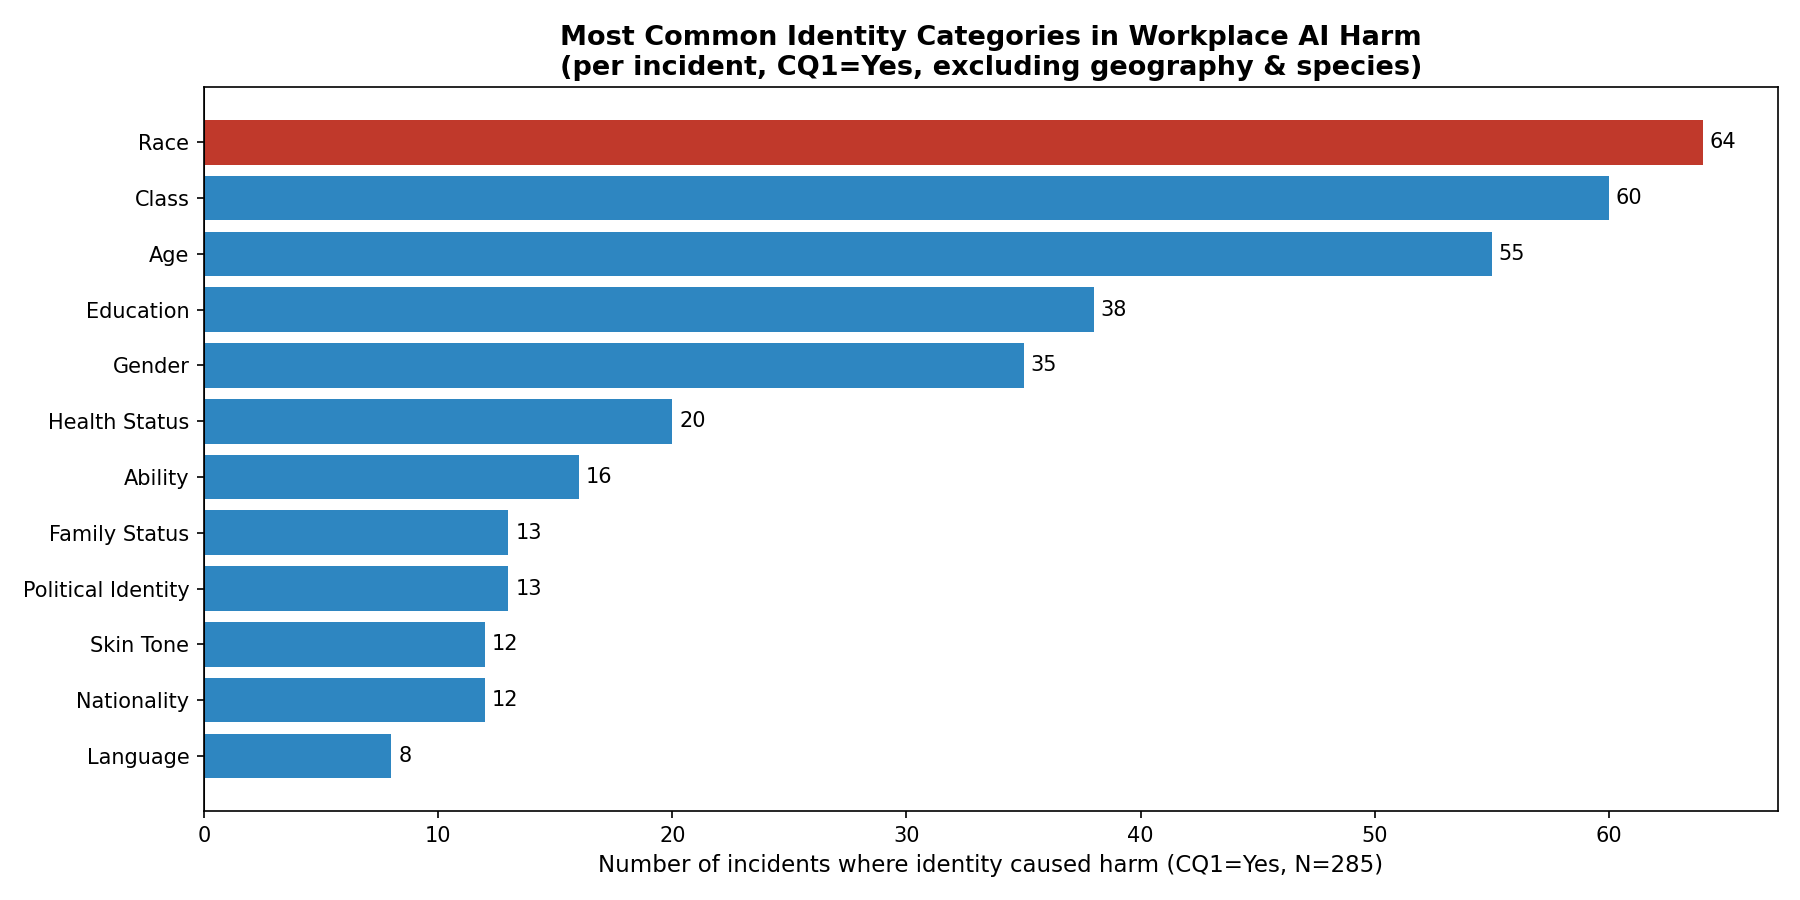
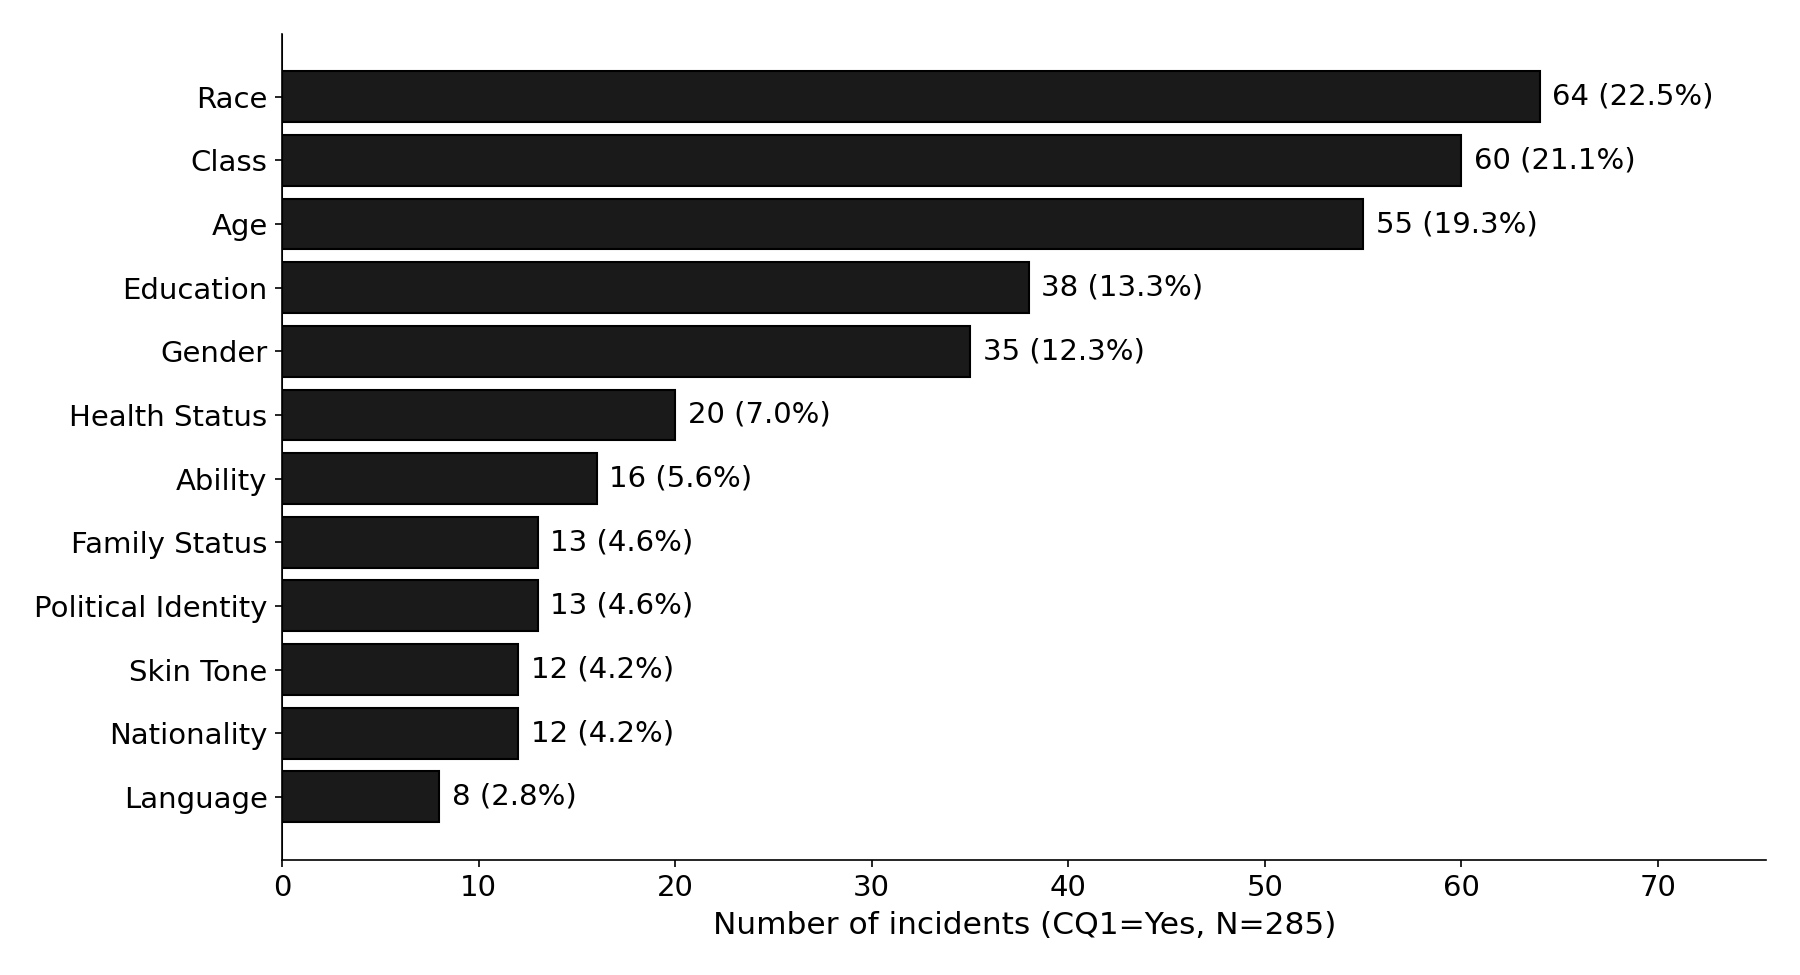
Refine intersectional analysis and graph styling
- Fix per-incident pair counting to match why_harms Formula 4
- Expand REDUNDANT_PAIRS: heritage<->race overlaps, disabled<->chronically ill
- Exclude 'graduate from elite university' from amplification (LLM noise)
- Drop title=8 amplification chart, lower threshold to n>=2
- Switch graphs to B&W styling (heatmap stays Blues)
- Remove in-figure titles so they can be added in the report
- Show counts and percentages on category prevalence
- Diagonal x-labels and larger fonts across all charts
- Switch API model in batch_annotate.py

diff --git a/src/analysis/quick_analysis.py b/src/analysis/quick_analysis.py
@@ -6,51 +6,267 @@ from collections import Counter
 from itertools import combinations
 from utils import get_causal_markers, is_valid_intersection
 
+# ── Paths ────────────────────────────────────────────────
 DATA_PATH = Path("../../data/annotations/annotations.json")
 OUTPUT_DIR = Path("../../data/figures/")
 OUTPUT_DIR.mkdir(parents=True, exist_ok=True)
 
+# ── Style: B&W, minimal, no titles ───────────────────────
+# Titles will be added in the report itself, not baked into the figure.
+plt.rcParams.update({
+    "font.family": "DejaVu Sans",
+    "font.size": 15,
+    "axes.titlesize": 0,        # titles drawn as empty
+    "axes.labelsize": 15,
+    "axes.edgecolor": "black",
+    "axes.linewidth": 0.8,
+    "xtick.labelsize": 14,
+    "ytick.labelsize": 14,
+    "axes.spines.top": False,
+    "axes.spines.right": False,
+})
+
+BAR_COLOR = "#1a1a1a"           # near-black, matches reference style
+EDGE_COLOR = "black"
+
+# ── Load data ────────────────────────────────────────────
 with DATA_PATH.open("r", encoding="utf-8") as f:
     data = json.load(f)
 
 N = len(data)
 
-# Data Aggregation
+# ── Aggregate counts ─────────────────────────────────────
+# Counts are aggregated PER INCIDENT (not per subject) to match the
+# why_harms Formula 4 convention: n_v1, n_v2, and n_v1,v2 all count
+# the number of *incidents* in which the value(s) appear, regardless
+# of how many subjects within that incident carry them.
 incident_category_counts = Counter()
 incident_value_counts = Counter()
 incident_value_pair_counts = Counter()
 
 for rec in data:
     cats_in_incident = set()
+    values_in_incident = set()
+    pairs_in_incident = set()
+
     for subj in rec.get("subjects", []):
         markers = get_causal_markers(subj)
-        for cat in markers.keys(): cats_in_incident.add(cat)
-        for cat, val in markers.items(): incident_value_counts[(cat, val)] += 1
-        
-        # Valid Intersections Only
+        for cat in markers.keys():
+            cats_in_incident.add(cat)
+        for cat, val in markers.items():
+            values_in_incident.add((cat, val))
+
+        # Collect pairs within a subject; dedup happens at the incident
+        # level via the set below so two subjects sharing the same pair
+        # don't double-count.
         for v1, v2 in combinations(sorted(markers.items()), 2):
             if is_valid_intersection(v1, v2):
-                incident_value_pair_counts[(v1, v2)] += 1
-                
-    for cat in cats_in_incident: incident_category_counts[cat] += 1
+                pairs_in_incident.add((v1, v2))
 
-# --- Generation of Cleaned Graph 4 (Amplification) ---
+    for cat in cats_in_incident:
+        incident_category_counts[cat] += 1
+    for val in values_in_incident:
+        incident_value_counts[val] += 1
+    for pair in pairs_in_incident:
+        incident_value_pair_counts[pair] += 1
+
+
+# ── GRAPH 1: Category prevalence per incident ────────────
+print("Building Graph 1 — Category prevalence...")
+
+top_categories = incident_category_counts.most_common(12)
+labels = [c[0].replace("_", " ").title() for c in top_categories]
+values = [c[1] for c in top_categories]
+
+# horizontal bars, largest at top
+labels_rev = labels[::-1]
+values_rev = values[::-1]
+
+fig, ax = plt.subplots(figsize=(12, 6.5))
+bars = ax.barh(labels_rev, values_rev, color=BAR_COLOR, edgecolor=EDGE_COLOR)
+ax.set_xlabel(f"Number of incidents (CQ1=Yes, N={N})")
+ax.axvline(x=0, color="black", linewidth=0.5)
+
+xmax = max(values_rev) if values_rev else 1
+# Add a bit more headroom on the right so "64 (22.5%)" labels fit.
+ax.set_xlim(0, xmax * 1.18)
+for bar, val in zip(bars, values_rev):
+    pct = 100 * val / N
+    ax.text(
+        bar.get_width() + xmax * 0.01,
+        bar.get_y() + bar.get_height() / 2,
+        f"{val} ({pct:.1f}%)",
+        va="center",
+        fontsize=14,
+    )
+
+plt.tight_layout()
+plt.savefig(OUTPUT_DIR / "graph1_category_prevalence.png", dpi=150)
+plt.close()
+print("  Saved graph1_category_prevalence.png")
+
+
+# ── GRAPH 2: Heatmap (kept in colour per request) ────────
+print("Building Graph 2 — Intersection heatmap...")
+
+all_cats = [c for c, _ in incident_category_counts.most_common(8)]
+matrix = np.zeros((len(all_cats), len(all_cats)), dtype=int)
+
+for rec in data:
+    cats_in_incident = set()
+    for subj in rec.get("subjects", []):
+        markers = get_causal_markers(subj)
+        for cat in markers.keys():
+            cats_in_incident.add(cat)
+    for i, a in enumerate(all_cats):
+        for j, b in enumerate(all_cats):
+            if i != j and a in cats_in_incident and b in cats_in_incident:
+                matrix[i][j] += 1
+
+mask = np.triu(np.ones_like(matrix, dtype=bool), k=0)
+matrix_masked = np.where(mask, np.nan, matrix.astype(float))
+
+fig, ax = plt.subplots(figsize=(10, 8))
+im = ax.imshow(matrix_masked, cmap="Blues")
+
+tick_labels = [c.replace("_", " ").title() for c in all_cats]
+ax.set_xticks(range(len(all_cats)))
+ax.set_yticks(range(len(all_cats)))
+ax.set_xticklabels(tick_labels, rotation=45, ha="right")
+ax.set_yticklabels(tick_labels)
+
+for i in range(len(all_cats)):
+    for j in range(len(all_cats)):
+        if not mask[i][j] and matrix[i][j] > 0:
+            ax.text(
+                j, i, str(matrix[i][j]),
+                ha="center", va="center",
+                color="white" if matrix[i][j] > matrix.max() * 0.6 else "black",
+                fontsize=14,
+            )
+
+cbar = plt.colorbar(im, ax=ax, label="Co-occurrence count")
+cbar.ax.tick_params(labelsize=13)
+plt.tight_layout()
+plt.savefig(OUTPUT_DIR / "graph2_intersection_heatmap.png", dpi=150)
+plt.close()
+print("  Saved graph2_intersection_heatmap.png")
+
+
+# ── GRAPH 3: Top intersectional value pairs ──────────────
+# Already redundancy-filtered above via is_valid_intersection.
+# Horizontal bars so the long pair labels stay legible.
+print("Building Graph 3 — Top value pairs...")
+
+top_pairs = incident_value_pair_counts.most_common(8)
+pair_labels = [
+    f"{v1.title()} + {v2.title()}"
+    for ((c1, v1), (c2, v2)), _ in top_pairs
+]
+pair_values = [n for _, n in top_pairs]
+
+# largest at top
+pair_labels_rev = pair_labels[::-1]
+pair_values_rev = pair_values[::-1]
+
+fig, ax = plt.subplots(figsize=(11, 6.5))
+bars = ax.barh(
+    pair_labels_rev, pair_values_rev,
+    color=BAR_COLOR, edgecolor=EDGE_COLOR,
+)
+ax.set_xlabel("Co-occurrence count")
+ax.axvline(x=0, color="black", linewidth=0.5)
+
+xmax = max(pair_values_rev) if pair_values_rev else 1
+ax.set_xlim(0, xmax * 1.10)
+for bar, val in zip(bars, pair_values_rev):
+    ax.text(
+        bar.get_width() + xmax * 0.01,
+        bar.get_y() + bar.get_height() / 2,
+        str(val),
+        va="center",
+        fontsize=14,
+    )
+
+plt.tight_layout()
+plt.savefig(OUTPUT_DIR / "graph3_top_value_pairs.png", dpi=150)
+plt.close()
+print("  Saved graph3_top_value_pairs.png")
+
+
+# ── GRAPH 4: Amplification scores ────────────────────────
+# Methodology follows why_harms Formula 4:
+#   amplification = n_v1,v2 / E[n_v1,v2],  where  E = n_v1 * n_v2 / N
+# All counts are at the INCIDENT level (set up above).
+#
+# We exclude pairs containing certain noisy LLM-tagged values that
+# inspection showed are over-applied (e.g., "graduate from elite
+# university" was tagged on any licensed professional regardless of
+# whether the source mentioned a specific elite institution).
+print("Building Graph 4 — Amplification scores...")
+
+EXCLUDE_VALUES = {
+    ("education", "graduate from elite university"),
+}
+MIN_OBSERVED = 2  # match the threshold used in earlier runs
+
 amp_results = []
 for ((c1, v1), (c2, v2)), observed in incident_value_pair_counts.items():
-    expected = (incident_value_counts[(c1, v1)] * incident_value_counts[(c2, v2)]) / N
-    if expected > 0 and observed >= 3:
-        amp_results.append((v1, v2, observed, observed / expected))
+    if (c1, v1) in EXCLUDE_VALUES or (c2, v2) in EXCLUDE_VALUES:
+        continue
+    n_v1 = incident_value_counts[(c1, v1)]
+    n_v2 = incident_value_counts[(c2, v2)]
+    expected = (n_v1 * n_v2) / N
+    if expected > 0 and observed >= MIN_OBSERVED:
+        amp_score = observed / expected
+        amp_results.append(((c1, v1), (c2, v2), observed, expected, amp_score))
 
-amp_results.sort(key=lambda x: x[3], reverse=True)
-top_amp = amp_results[:10]
+amp_results.sort(key=lambda x: x[4], reverse=True)
+top_amp = amp_results[:8]
 
-fig, ax = plt.subplots(figsize=(14, 6))
-labels = [f"{v1.title()} +\n{v2.title()}" for v1, v2, obs, amp in top_amp]
-values = [amp for v1, v2, obs, amp in top_amp]
-ax.bar(range(len(labels)), values, color="#2E86C1")
-ax.axhline(y=1.0, color="black", linestyle="--", label="Expected baseline")
-ax.set_title("RQ2: Top Intersectional Amplification (Filtered Overlaps)", fontweight="bold")
-plt.xticks(range(len(labels)), labels, fontsize=8)
+labels_amp = [
+    f"{v1.title()} + {v2.title()}"
+    for (c1, v1), (c2, v2), obs, exp, amp in top_amp
+]
+values_amp = [amp for _, _, obs, exp, amp in top_amp]
+obs_counts = [obs for _, _, obs, exp, amp in top_amp]
+
+fig, ax = plt.subplots(figsize=(12, 7))
+bars = ax.bar(
+    range(len(labels_amp)), values_amp,
+    color=BAR_COLOR, edgecolor=EDGE_COLOR,
+)
+
+ax.axhline(y=1.0, color="black", linewidth=1, linestyle="--")
+ax.set_xticks(range(len(labels_amp)))
+ax.set_xticklabels(labels_amp, fontsize=14, rotation=30, ha="right")
+ax.set_ylabel("Amplification (observed / expected)")
+
+ymax = max(values_amp) if values_amp else 1
+ax.set_ylim(0, ymax * 1.18)
+for bar, amp, obs in zip(bars, values_amp, obs_counts):
+    ax.text(
+        bar.get_x() + bar.get_width() / 2,
+        bar.get_height() + ymax * 0.02,
+        f"{amp:.2f}×\n(n={obs})",
+        ha="center",
+        fontsize=13,
+    )
+
+plt.tight_layout()
 plt.savefig(OUTPUT_DIR / "graph4_amplification.png", dpi=150)
 plt.close()
-print(f"✅ Cleaned graphs saved to {OUTPUT_DIR}")
+print("  Saved graph4_amplification.png")
+
+# ── NOTE: 3-way amplification deliberately not produced ─────
+# A 3-way amplification chart (e.g., lower class + female + single
+# parent) was considered but the data is too sparse for it. With
+# N=285 incidents, every unique triple appears in exactly 1 incident,
+# which means no statistically meaningful amplification can be
+# computed. The reference paper (why_harms) reports 3-way patterns
+# with N=711, where triples can occur multiple times. To enable a
+# 3-way chart in this project we'd need either a substantially
+# larger incident set or a re-run with a more permissive rubric.
+# Discuss in the report's limitations section.
+
+print(f"\n✅ All graphs saved to {OUTPUT_DIR}")

diff --git a/src/analysis/utils.py b/src/analysis/utils.py
@@ -3,15 +3,27 @@ Utility functions for AI incident data normalization and intersectional validati
 Centralizing this logic ensures consistency between terminal reports and graphs.
 """
 
-# Semantic overlaps that should be ignored for intersectional analysis
+# Semantic overlaps that should be ignored for intersectional analysis.
+# Each tuple is (cat1, val1, cat2, val2) — order doesn't matter, the
+# checker tests both directions.
 REDUNDANT_PAIRS = {
+    # race / skin tone overlaps
     ("race", "people of color", "skin_tone", "dark"),
     ("race", "black", "skin_tone", "dark"),
+    # heritage values that already imply race=people of color
+    ("heritage", "asian", "race", "people of color"),
+    ("heritage", "african", "race", "people of color"),
+    ("heritage", "latin american", "race", "people of color"),
+    ("heritage", "middle eastern", "race", "people of color"),
+    ("heritage", "indigenous", "race", "people of color"),
+    # age / education overlaps
     ("age", "adolescent", "education", "student"),
     ("age", "child", "education", "student"),
     ("age", "young adult", "education", "student"),
+    # ability / health status overlaps
     ("ability", "disabled", "health_status", "physically disabled"),
     ("ability", "disabled", "health_status", "disabled"),
+    ("ability", "disabled", "health_status", "chronically ill"),
 }
 
 def normalize_marker(cat, marker):

diff --git a/src/rubric/batch_annotate.py b/src/rubric/batch_annotate.py
@@ -291,7 +291,7 @@ def main():
                 
                 # Mode JSON natiu de Gemini per evitar problemes de parseig
                 response = client.models.generate_content(
-                    model="gemini-1.5-flash", 
+                    model="gemini-3.1-flash-lite-preview", 
                     contents=prompt,
                     config={"response_mime_type": "application/json"}
                 )
